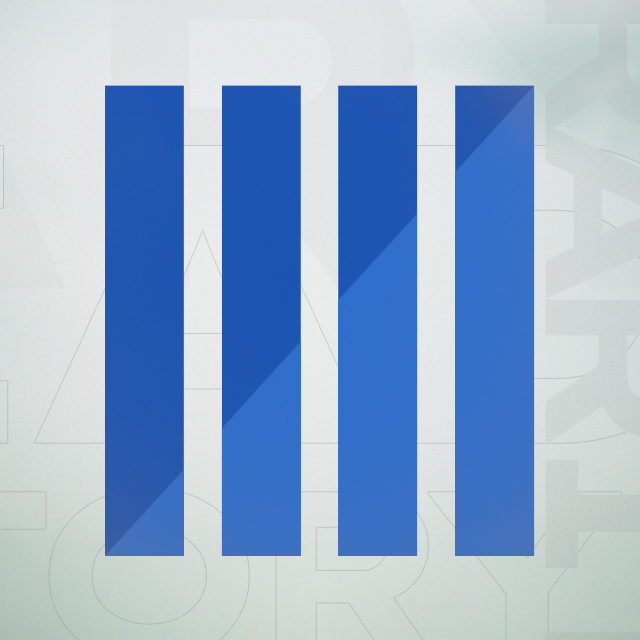
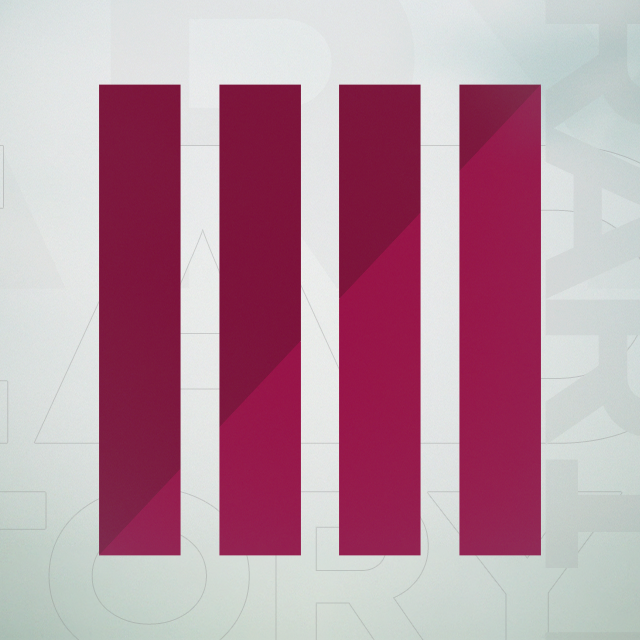
Change theme, add hero images

diff --git a/src/js/main.js b/src/js/main.js
@@ -8,13 +8,6 @@ import * as svg from './svg';
 import eventJson from 'url:../data/calendar.json';
 import hashCache from 'url:../data/hashcache.json';
 
-// Favicon mode
-if (window.matchMedia('(prefers-color-scheme:light)').matches) {
-    document.getElementById('fav-dark').remove();
-} else {
-    document.getElementById('fav-light').remove();
-}
-
 // Get page details
 const url = window.location.href
 let page;
